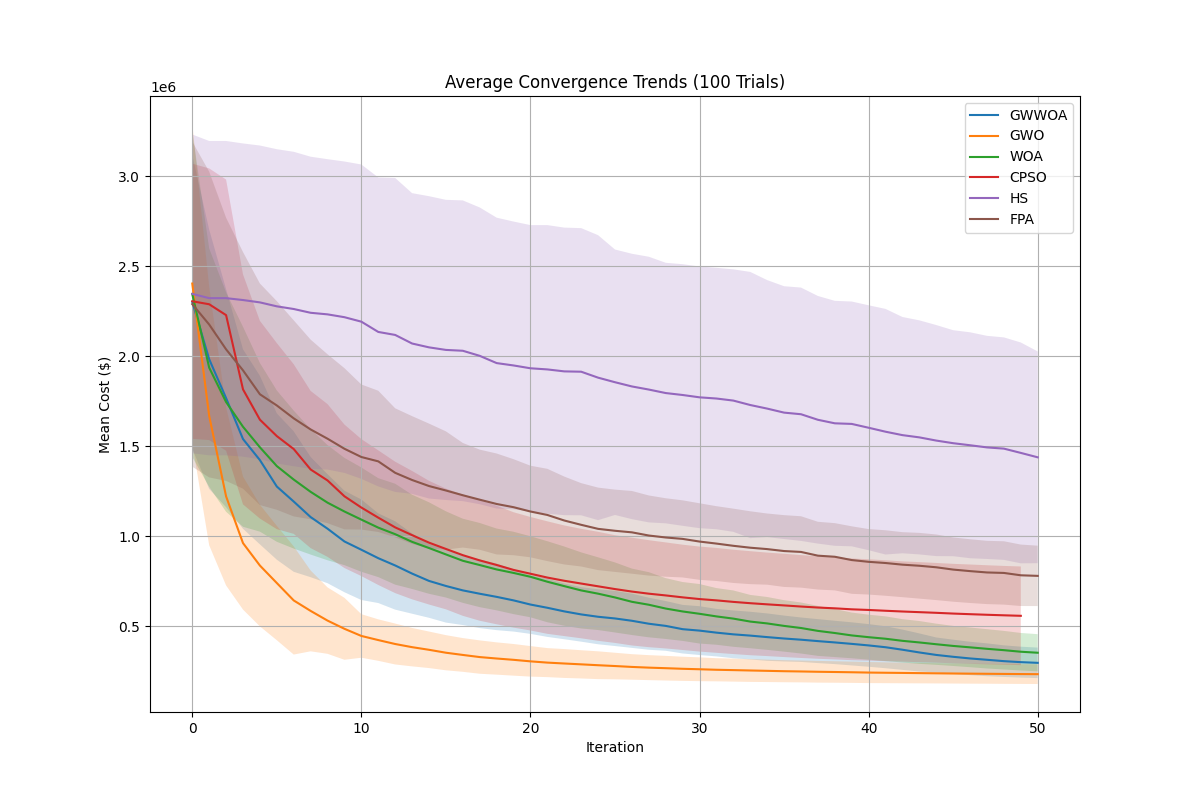
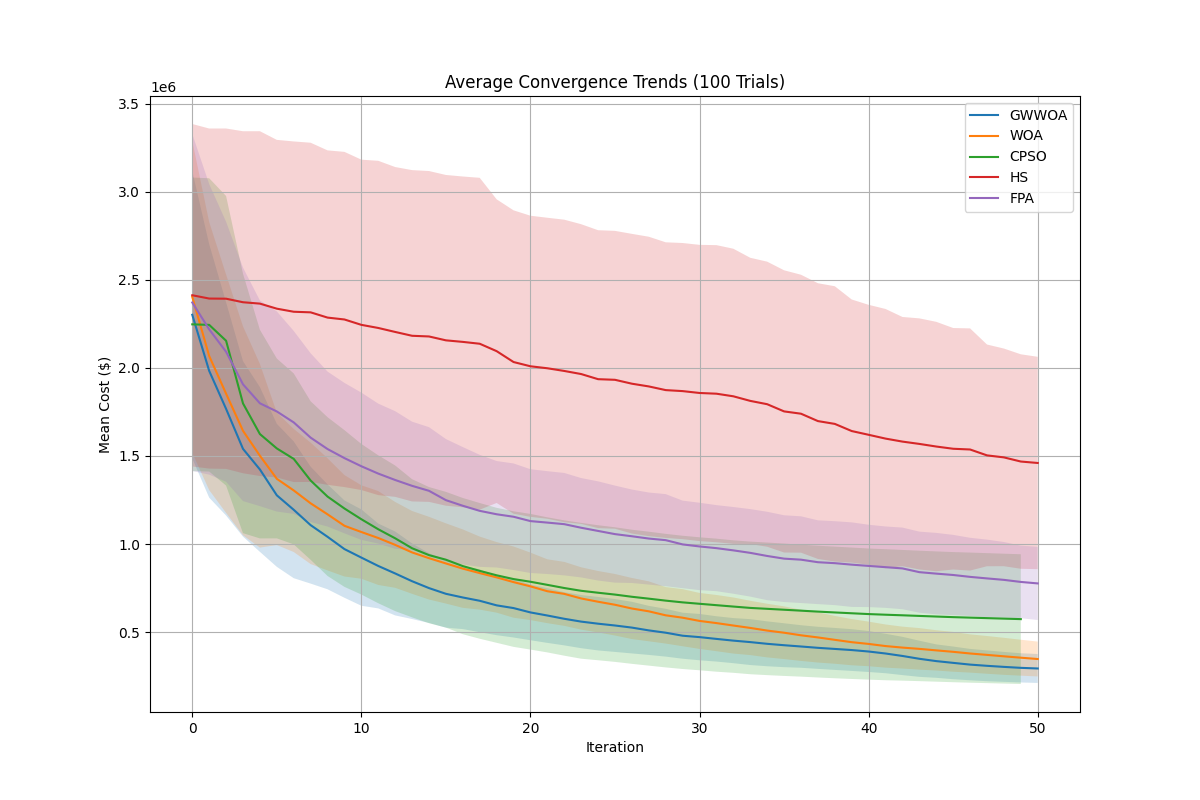
commit

diff --git a/gwwo.py b/gwwo.py
@@ -11,7 +11,7 @@ class GWWOA:
         self.max_iter = max_iter
         self.levy_prob = levy_prob
         self.chaos_prob = chaos_prob
-        self.beta = beta
+        self.beta = beta 
         
         # Initialize population with chaotic logistic map for half the population
         self.positions = np.random.uniform(low=self.bounds[:,0], high=self.bounds[:,1], 
@@ -47,7 +47,9 @@ class GWWOA:
     def optimize(self):
         for iter in range(self.max_iter):
             a = 2 - 2 * iter / self.max_iter
-            omega = 0.9 - 0.5 * iter / self.max_iter
+            omega_initial = 0.9
+            omega_final = 0.4
+            omega = omega_initial * (omega_final / omega_initial) ** (iter / self.max_iter)
             
             for i in range(self.pop_size):
                 A = 2 * a * np.random.rand(self.dim) - a
@@ -105,81 +107,6 @@ class GWWOA:
         
         return self.alpha, self.best_fitness
 
-class GWO:
-    def __init__(self, obj_func, dim, bounds, population_size=30, max_iter=100):
-        self.obj_func = obj_func
-        self.dim = dim
-        self.bounds = np.array(bounds)
-        self.pop_size = population_size
-        self.max_iter = max_iter
-        
-        # Initialize population
-        self.positions = np.random.uniform(low=self.bounds[:,0], high=self.bounds[:,1], 
-                                       size=(self.pop_size, self.dim))
-        self.fitness = np.apply_along_axis(self.obj_func, 1, self.positions)
-        self.sort_population()
-        self.alpha = self.positions[0]
-        self.beta = self.positions[1]
-        self.delta = self.positions[2]
-        self.history = [self.fitness[0]]
-    
-    def sort_population(self):
-        idx = np.argsort(self.fitness)
-        self.positions = self.positions[idx]
-        self.fitness = self.fitness[idx]
-    
-    def optimize(self):
-        for iter in range(self.max_iter):
-            a = 2 - 2 * iter / self.max_iter  # a decreases linearly from 2 to 0
-            
-            for i in range(self.pop_size):
-                # Update positions
-                r1 = np.random.rand(self.dim)
-                r2 = np.random.rand(self.dim)
-                
-                A1 = 2 * a * r1 - a
-                C1 = 2 * r2
-                
-                D_alpha = np.abs(C1 * self.alpha - self.positions[i])
-                X1 = self.alpha - A1 * D_alpha
-                
-                r1 = np.random.rand(self.dim)
-                r2 = np.random.rand(self.dim)
-                
-                A2 = 2 * a * r1 - a
-                C2 = 2 * r2
-                
-                D_beta = np.abs(C2 * self.beta - self.positions[i])
-                X2 = self.beta - A2 * D_beta
-                
-                r1 = np.random.rand(self.dim)
-                r2 = np.random.rand(self.dim)
-                
-                A3 = 2 * a * r1 - a
-                C3 = 2 * r2
-                
-                D_delta = np.abs(C3 * self.delta - self.positions[i])
-                X3 = self.delta - A3 * D_delta
-                
-                new_pos = (X1 + X2 + X3) / 3
-                new_pos = np.clip(new_pos, self.bounds[:,0], self.bounds[:,1])
-                
-                # Evaluate new position
-                new_fitness = self.obj_func(new_pos)
-                
-                # Update if improved
-                if new_fitness < self.fitness[i]:
-                    self.positions[i] = new_pos
-                    self.fitness[i] = new_fitness
-            
-            # Update leaders
-            self.sort_population()
-            self.alpha = self.positions[0]
-            self.beta = self.positions[1]
-            self.delta = self.positions[2]
-            self.history.append(self.fitness[0])
-        
-        return self.alpha, self.history
 
 class WOA:
     def __init__(self, obj_func, dim, bounds, population_size=30, max_iter=100):
@@ -353,3 +280,4 @@ class FPA:  # Flower Pollination Algorithm
             self.history.append(self.best_fitness)
         
         return self.best_position, self.history
+

diff --git a/renewable_optimizer.py b/renewable_optimizer.py
@@ -5,7 +5,7 @@ from scipy.optimize import minimize
 from scipy.special import gamma
 from sko.GA import GA
 from sko.PSO import PSO
-from gwwo import GWWOA, GWO, WOA, HS, FPA
+from gwwo import GWWOA, WOA, HS, FPA
 
 
 class RenewableOptimizer:
@@ -128,7 +128,7 @@ class RenewableOptimizer:
         )
         best_solution, fitness_history = gwwoa.optimize()
         return best_solution, fitness_history
-
+    
     def run_ga(self):
         """Genetic Algorithm implementation"""
         ga = GA(
@@ -180,19 +180,6 @@ class RenewableOptimizer:
             pso_history.append(pso.gbest_y)
             
         return pso.gbest_x, pso_history
-
-    def run_gwo(self):
-        """Grey Wolf Optimizer implementation"""
-        bounds = [[1, 2000]] + [[-0.5, 0.5]]*24
-        gwo = GWO(
-            obj_func=lambda x: self.energy_cost(x),
-            dim=25,
-            bounds=bounds,
-            population_size=self.pop_size,
-            max_iter=self.max_iter
-        )
-        best_solution, fitness_history = gwo.optimize()
-        return best_solution, fitness_history
 
     def run_woa(self):
         """Whale Optimization Algorithm implementation"""
@@ -284,18 +271,39 @@ def plot_convergence(results):
     plt.close()
 
 def plot_soc_comparison(results):
-    plt.figure(figsize=(14,8))
-    for algo, data in results.items():
+    algorithms = list(results.keys())
+    num_algorithms = len(algorithms)
+    
+    plt.figure(figsize=(14, 3*num_algorithms))  # Her algoritma için 3 birim yükseklik
+    
+    for idx, algo in enumerate(algorithms, 1):
+        plt.subplot(num_algorithms, 1, idx)  # n satır, 1 sütun, pozisyon idx
+        
+        data = results[algo]
         solutions = [s for s in data['solutions'] if s is not None]
+        
         if solutions:
-            soc = calculate_soc(solutions[-1])
-            plt.plot(soc, label=f'{algo} SOC')
-    plt.title('State of Charge Comparison')
-    plt.xlabel('Hour')
-    plt.ylabel('SOC (%)')
-    plt.legend()
-    plt.grid(True)
-    plt.savefig('soc_comparison.png')
+            soc = calculate_soc(solutions[-1])  # Son başarılı çözümü al
+            plt.plot(soc, color='tab:blue', linewidth=2)
+            plt.fill_between(range(len(soc)), soc, alpha=0.2, color='tab:blue')
+            
+            # Grafik düzenlemeleri
+            plt.title(f'{algo} - State of Charge', fontsize=12, pad=10)
+            plt.xlabel('Hour', fontsize=10)
+            plt.ylabel('SOC (%)', fontsize=10)
+            plt.grid(True, linestyle='--', alpha=0.7)
+            plt.xticks(range(0, 24, 2))
+            plt.ylim(0, 1)
+            
+        else:
+            plt.text(0.5, 0.5, 'No Valid Solution', 
+                    ha='center', va='center', 
+                    transform=plt.gca().transAxes,
+                    color='red', fontsize=12)
+            plt.axis('off')
+    
+    plt.tight_layout(pad=3.0)
+    plt.savefig('soc_comparison_subplots.png', dpi=300, bbox_inches='tight')
     plt.close()
 
 def population_sensitivity():
@@ -408,7 +416,6 @@ def plot_mean_convergence(results, analysis):
 if __name__ == "__main__":
     algorithms = {
         "GWWOA": "run_gwwoa",
-        "GWO": "run_gwo",
         "WOA": "run_woa", 
         "CPSO": "run_pso",
         "HS": "run_hs",
@@ -419,10 +426,10 @@ if __name__ == "__main__":
     analysis = analyze_results(results)
     
     print("\n=== Final Performance Summary ===")
-    print(f"{'Algorithm':<10} {'Mean':<12} {'Std':<10} {'Min':<12} {'Max':<12} {'Success':<8}")
+    print(f"{'Algorithm':<10}\t{'Mean':<12}\t{'Std':<10}\t{'Min':<12}\t{'Max':<12}\t{'Success':<8}")
     for algo, data in analysis.items():
-        print(f"{algo:<10} ${data['mean']:,.2f} ±{data['std']:.2f}  "
-              f"${data['min']:,.2f}  ${data['max']:,.2f}  {data['success_rate']:.1%}")
+        print(f"{algo:<10}\t${data['mean']:,.2f}\t±{data['std']:.2f}  "
+              f"${data['min']:,.2f}\t${data['max']:,.2f}\t{data['success_rate']:.1%}")
 
     plot_mean_convergence(results, analysis)
     plot_soc_comparison(results)
